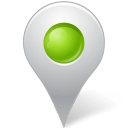
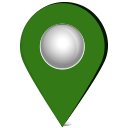
2024/09/04

diff --git a/lib/uI/main/drawer/in_out/in_out.dart b/lib/uI/main/drawer/in_out/in_out.dart
@@ -1,8 +1,6 @@
 import 'dart:async';
-import 'dart:convert';
 import 'dart:developer';
 import 'dart:io';
-
 import 'package:dotted_border/dotted_border.dart';
 import 'package:flutter/cupertino.dart';
 import 'package:flutter/material.dart';
@@ -39,7 +37,7 @@ class _InOutUpdateGoogleMapState extends State<InOutUpdateGoogleMap> {
   String branchName = '';
   String visitBranchId = '';
   bool isLoading = false;
-  final ImagePicker _picker = ImagePicker();
+
   String lat = '';
   String long = '';
   String image64 = '';
@@ -94,15 +92,15 @@ class _InOutUpdateGoogleMapState extends State<InOutUpdateGoogleMap> {
   userLocation() async {
     BitmapDescriptor markerBitMap = await BitmapDescriptor.fromAssetImage(
       ImageConfiguration(size: Size(40, 40)),
-      "assets/green.png",
+      "assets/2.png",
     );
     BitmapDescriptor markerBitMap2 = await BitmapDescriptor.fromAssetImage(
       ImageConfiguration(size: Size(40, 40)),
-      "assets/blue.png",
+      "assets/1.png",
     );
     BitmapDescriptor markerBitMap3 = await BitmapDescriptor.fromAssetImage(
       ImageConfiguration(size: Size(40, 40)),
-      "assets/red.png",
+      "assets/3.png",
     );
     DateTime now = DateTime.now();
     String formattedDate = DateFormat('yyyy-MM-dd').format(now);
@@ -116,10 +114,10 @@ class _InOutUpdateGoogleMapState extends State<InOutUpdateGoogleMap> {
       log(todayVisitBranchList.toString());
     });
     setState(() {
-      List.generate(todayVisitBranchList.length, (index) {
+      List.generate(todayVisitBranchList.length, (index) async {
         double lat = double.parse(todayVisitBranchList[index]['lati']);
         double long = double.parse(todayVisitBranchList[index]['longt']);
-
+        log(todayVisitBranchList[index]['shv_status'].toString());
         Set<Marker> _markertemp = {
           Marker(
               onTap: () {
@@ -129,7 +127,15 @@ class _InOutUpdateGoogleMapState extends State<InOutUpdateGoogleMap> {
                 });
               },
               // icon: BitmapDescriptor.defaultMarkerWithHue(0.4),
-              icon: markerBitMap3,
+              icon:
+                  await todayVisitBranchList[index]['shv_status'].toString() ==
+                          "2"
+                      ? markerBitMap3
+                      : await todayVisitBranchList[index]['shv_status']
+                                  .toString() ==
+                              "1"
+                          ? markerBitMap2
+                          : markerBitMap,
               infoWindow: InfoWindow(
                 onTap: () {
                   setState(() {
@@ -137,7 +143,7 @@ class _InOutUpdateGoogleMapState extends State<InOutUpdateGoogleMap> {
                     isOpen = true;
                   });
                 },
-                title: todayVisitBranchList[index]['dname'],
+                title: "     ${todayVisitBranchList[index]['dname']}     ",
               ),
               markerId: MarkerId(todayVisitBranchList[index]['did']),
               position: LatLng(lat, long))

diff --git a/lib/uI/main/drawer/in_out/in_out_pickup_decice.dart b/lib/uI/main/drawer/in_out/in_out_pickup_decice.dart
@@ -250,6 +250,20 @@ class _InOutPickupDeviceState extends State<InOutPickupDevice> {
                             ],
                           ),
                         ),
+                        Positioned(
+                          right: 12,
+                          top: 12,
+                          child: Card(
+                              elevation: 20,
+                              color: Color.fromARGB(255, 248, 252, 250),
+                              child: Padding(
+                                padding: const EdgeInsets.all(8.0),
+                                child: Text(
+                                  branchName,
+                                  style: TextStyle(color: black),
+                                ),
+                              )),
+                        ),
                         isLoading ? Loader().loader(context) : SizedBox(),
                         provider.isanotherUserLog
                             ? UserLoginCheck()

diff --git a/lib/uI/main/drawer/drawer.dart b/lib/uI/main/drawer/drawer.dart
@@ -241,7 +241,9 @@ class _customDrawerState extends State<customDrawer> {
                                             icon: Icons
                                                 .indeterminate_check_box_outlined,
                                             onTap: () {
-                                              navigation(InOutPickupDevice());
+                                              navigation(pickupDevice == '1'
+                                                  ? InOutPickupDevice()
+                                                  : InOutUpdateGoogleMap());
                                             },
                                             text: 'In Out',
                                           )
